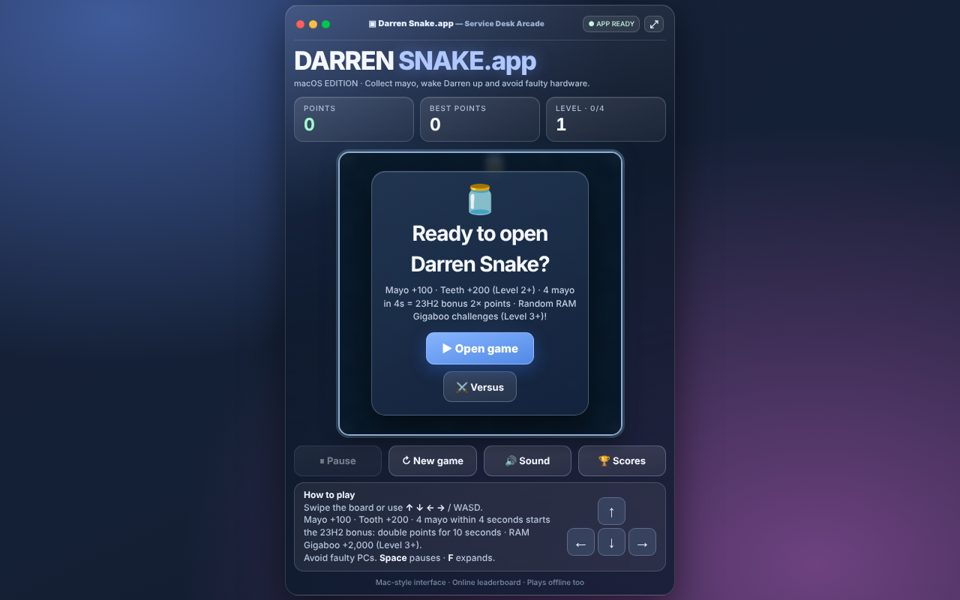
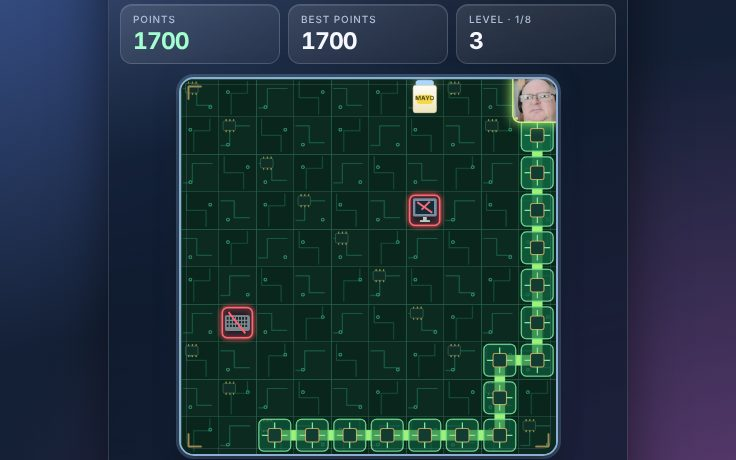
Use gameplay screenshots for Darren Snake and Tomato Dave's
Claude-Session: https://claude.ai/code/session_01QEaTJGHHamJTBejTPLrJCV

diff --git a/index.html b/index.html
@@ -93,7 +93,7 @@
 
     <main class="grid">
       <a class="card" href="https://darren-snake.vercel.app">
-        <div class="shot"><img src="screenshots/darren-snake.jpg" alt="Darren Snake start screen" loading="lazy"></div>
+        <div class="shot"><img src="screenshots/darren-snake.jpg" alt="Darren Snake mid-game, with a long snake and a mayo jar" loading="lazy"></div>
         <div class="body">
           <h2>Darren Snake</h2>
           <p class="tag">Snake, service-desk style. Guide Darren round the board collecting mayo and teeth while dodging faulty PCs. Grab four mayo in four seconds for the 23H2 double-points bonus, take on RAM Gigaboo challenges, or go head-to-head in Versus, where big scores dump cat sick on your opponent's board.</p>
@@ -129,7 +129,7 @@
       </a>
 
       <a class="card" href="https://tomatodavestenpin.vercel.app">
-        <div class="shot"><img src="screenshots/tomato-daves-tenpin.jpg" alt="Tomato Dave's Ten-pin bowling lane" loading="lazy"></div>
+        <div class="shot"><img src="screenshots/tomato-daves-tenpin.jpg" alt="Tomato Dave reacting after a throw" loading="lazy"></div>
         <div class="body">
           <h2>Tomato Dave's Ten-pin</h2>
           <p class="tag">3D bowling where the ball is a tomato and Dave has opinions about every throw. Splatter pins across retro alleys, a server room and a disco, unlock new tomatoes and suits for Dave, and get your name on the online leaderboard.</p>
